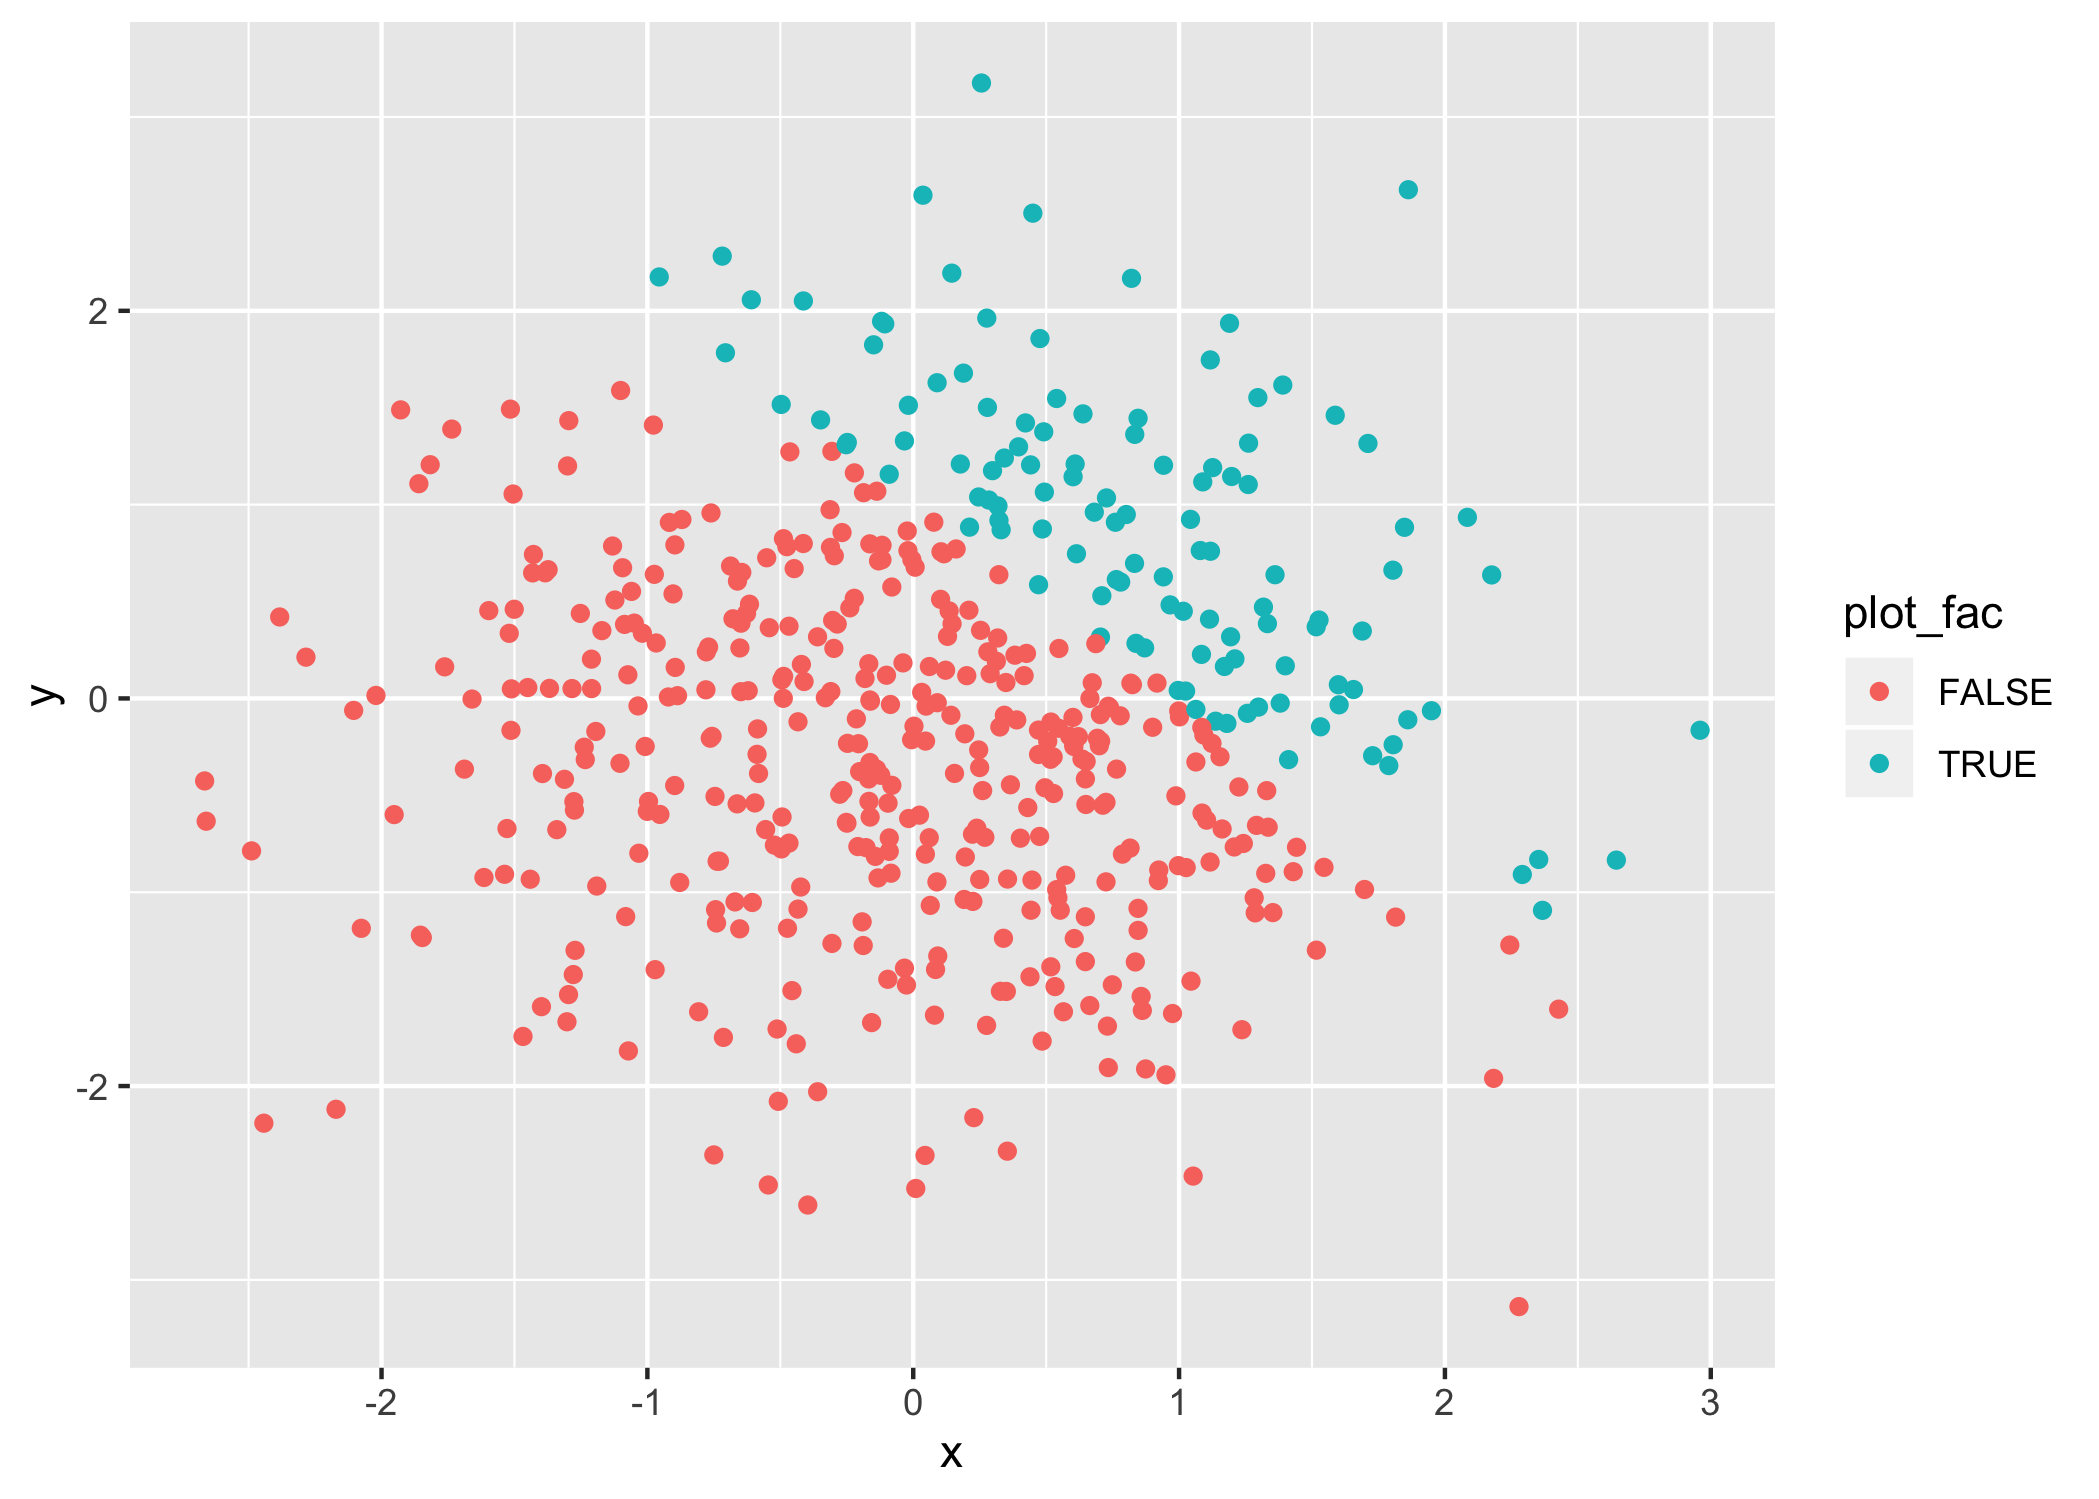
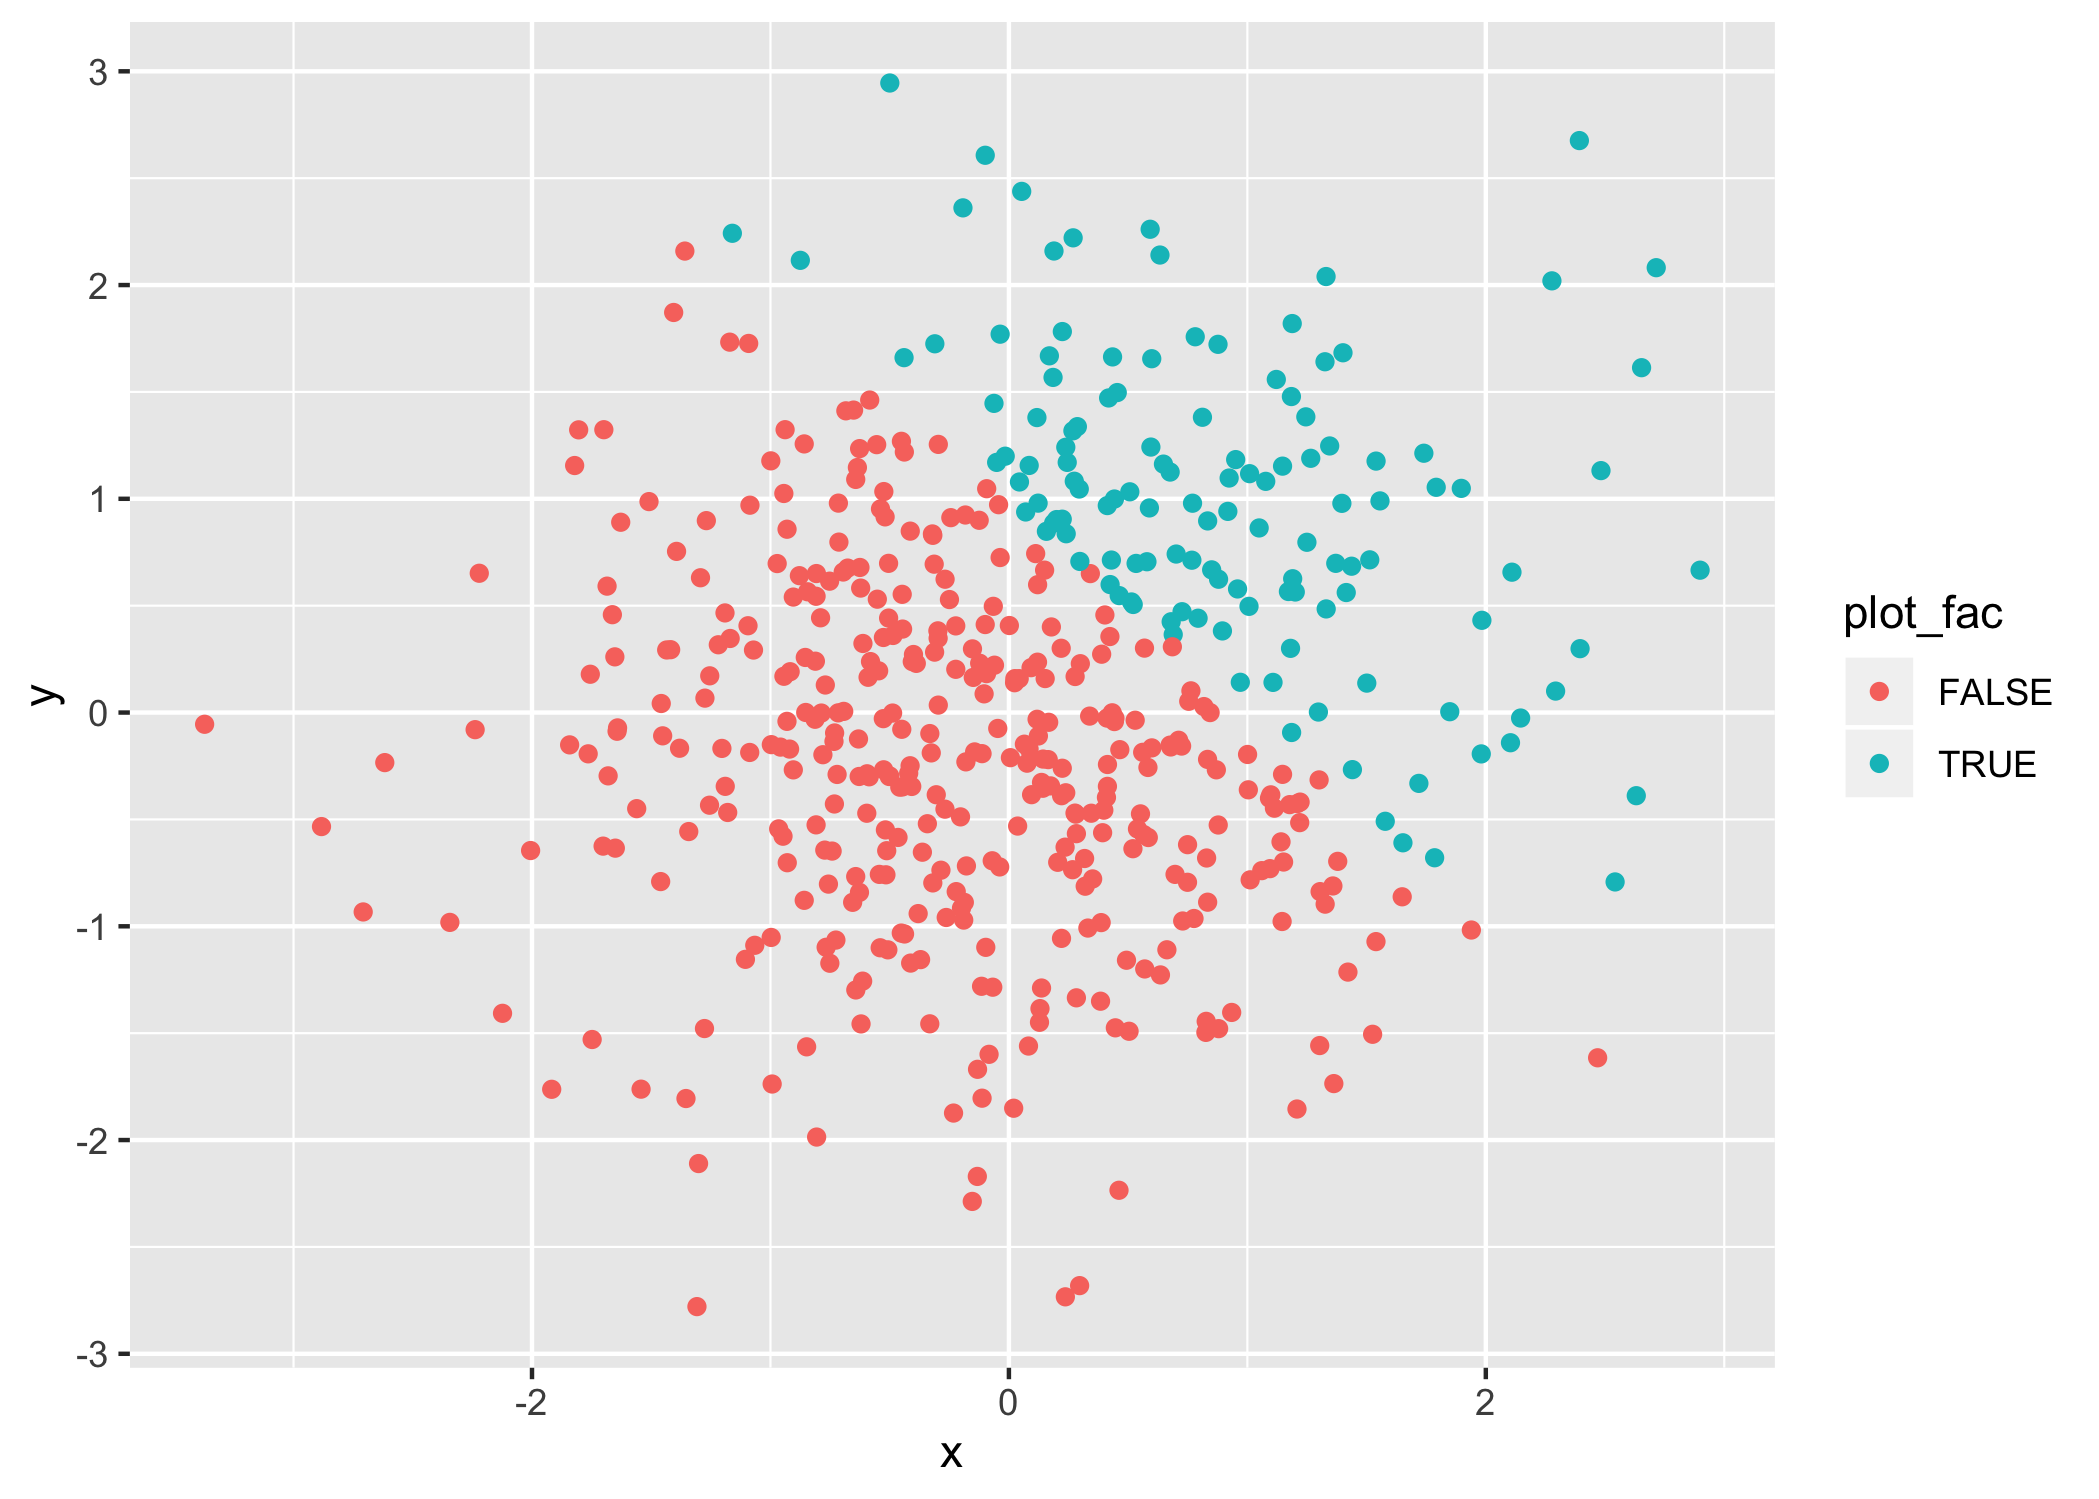
write readme and add title

diff --git a/p8105_hw1_ys3298.md b/p8105_hw1_ys3298.md
@@ -3,6 +3,8 @@ p8105\_hw1\_ys3298
 Yimeng SHANG
 9/12/2019
 
+# 1.1
+
 ``` r
 #setup dataframe
 library(tidyverse)
@@ -24,7 +26,7 @@ df = tibble(
   norm_distri = rnorm(8, 0, 1),
   vec_logi = norm_distri > 0,
   vec_char = c("1", "2", "3", "4", "5", "6", "7", "8"),
-  vec_fac = factor(c("1", "2", "1", "1", "1", "1","2","2"))
+  vec_fac = factor(c("1", "2", "1", "1", "1", "1", "2","2"))
 )
 
 #Take the mean of each data types in df
@@ -51,6 +53,8 @@ num_char = as.numeric(df$vec_char)
 num_fac = as.numeric(df$vec_fac)
 ```
 
+# 1.2
+
 ``` r
 #convert the logical vector to numeric, and multiply the random sample by the result
 num_logi = as.numeric(df$vec_logi)
@@ -72,6 +76,8 @@ num_logi_fact = as.numeric(as.factor(df$vec_logi))
 product_num_logi_fac = num_logi_fact * df$norm_distri
 ```
 
+# 2.1
+
 ``` r
 #setup new dataframe for plot
 plotdata = tibble(
@@ -83,48 +89,38 @@ plotdata = tibble(
 )
 ```
 
+# 2.2
+
   - The row of the plotdata is : 500
   - The column of the plotdata is : 5
-  - The mean of x : 0.0772786
-  - The median of x : 0.1036748
-  - The standard deviation of x : 0.9775324
+  - The mean of x : 0.0275958
+  - The median of x : 0.0307464
+  - The standard deviation of x : 0.9895401
   - The proportion of cases for which x + y \> 1 is :
-0.234
+0.256
 
-<!-- end list -->
+# 2.3 + 2.4
 
 ``` r
-ggplot(plot1, data = plotdata, mapping = aes(x = x, y = y, colour = plot_logi)) + geom_point()
+ggplot(plot1, data = plotdata, mapping = aes(x = x, y = y, color = plot_logi)) + geom_point()
 ```
 
 ![](p8105_hw1_ys3298_files/figure-gfm/unnamed-chunk-2-1.png)<!-- -->
 
 ``` r
-ggplot(plot2, data = plotdata, mapping = aes(x = x, y = y, colour = plot_num)) + geom_point()
+ggplot(plot2, data = plotdata, mapping = aes(x = x, y = y, color = plot_num)) + geom_point()
 ```
 
 ![](p8105_hw1_ys3298_files/figure-gfm/unnamed-chunk-2-2.png)<!-- -->
 
 ``` r
-ggplot(plot3, data = plotdata, mapping = aes(x = x, y = y, colour = plot_fac)) + geom_point()
+ggplot(plot3, data = plotdata, mapping = aes(x = x, y = y, color = plot_fac)) + geom_point()
 ```
 
 ![](p8105_hw1_ys3298_files/figure-gfm/unnamed-chunk-2-3.png)<!-- -->
 
 ``` r
 ggsave("plot1.png")
-```
-
-    ## Saving 7 x 5 in image
-
-``` r
-ggsave("plot2.png")
-```
-
-    ## Saving 7 x 5 in image
-
-``` r
-ggsave("plot3.png")
 ```
 
     ## Saving 7 x 5 in image

diff --git a/README.md b/README.md
@@ -1,1 +1,31 @@
 # p8105_hw1_ys3298
+
+1.1 Create a data frame comprised of:
+
+a random sample of size 8 from a standard Normal distribution
+a logical vector indicating whether elements of the sample are greater than 0
+a character vector of length 8
+a factor vector of length 8, with 3 different factor “levels”
+
+1.2 In a second code chunk:
+
+convert the logical vector to numeric, and multiply the random sample by the result
+convert the logical vector to a factor, and multiply the random sample by the result
+convert the logical vector to a factor and then convert the result to numeric, and multiply the random sample by the result
+
+2.1 
+Create a data frame comprised of:
+x: a random sample of size 500 from a standard Normal distribution
+y: a random sample of size 500 from a standard Normal distribution
+A logical vector indicating whether x + y > 1
+A numeric vector created by coercing the above logical vector
+A factor vector created by coercing the above logical vector
+
+2.2
+Write a short description of your vector using inline R code, including: * the size of the dataset (using nrow and ncol) * the mean, median, and standard deviation of x * the proportion of cases for which x + y > 1
+
+2.3
+Make a scatterplot of y vs x; color points using the logical variable (adding color = ... inside of aes in your ggplot code should help). Make a second and third scatterplot that color points using the numeric and factor variables, respectively, and comment on the color scales.
+
+2.4
+Export your first scatterplot to your project directory using ggsave.
